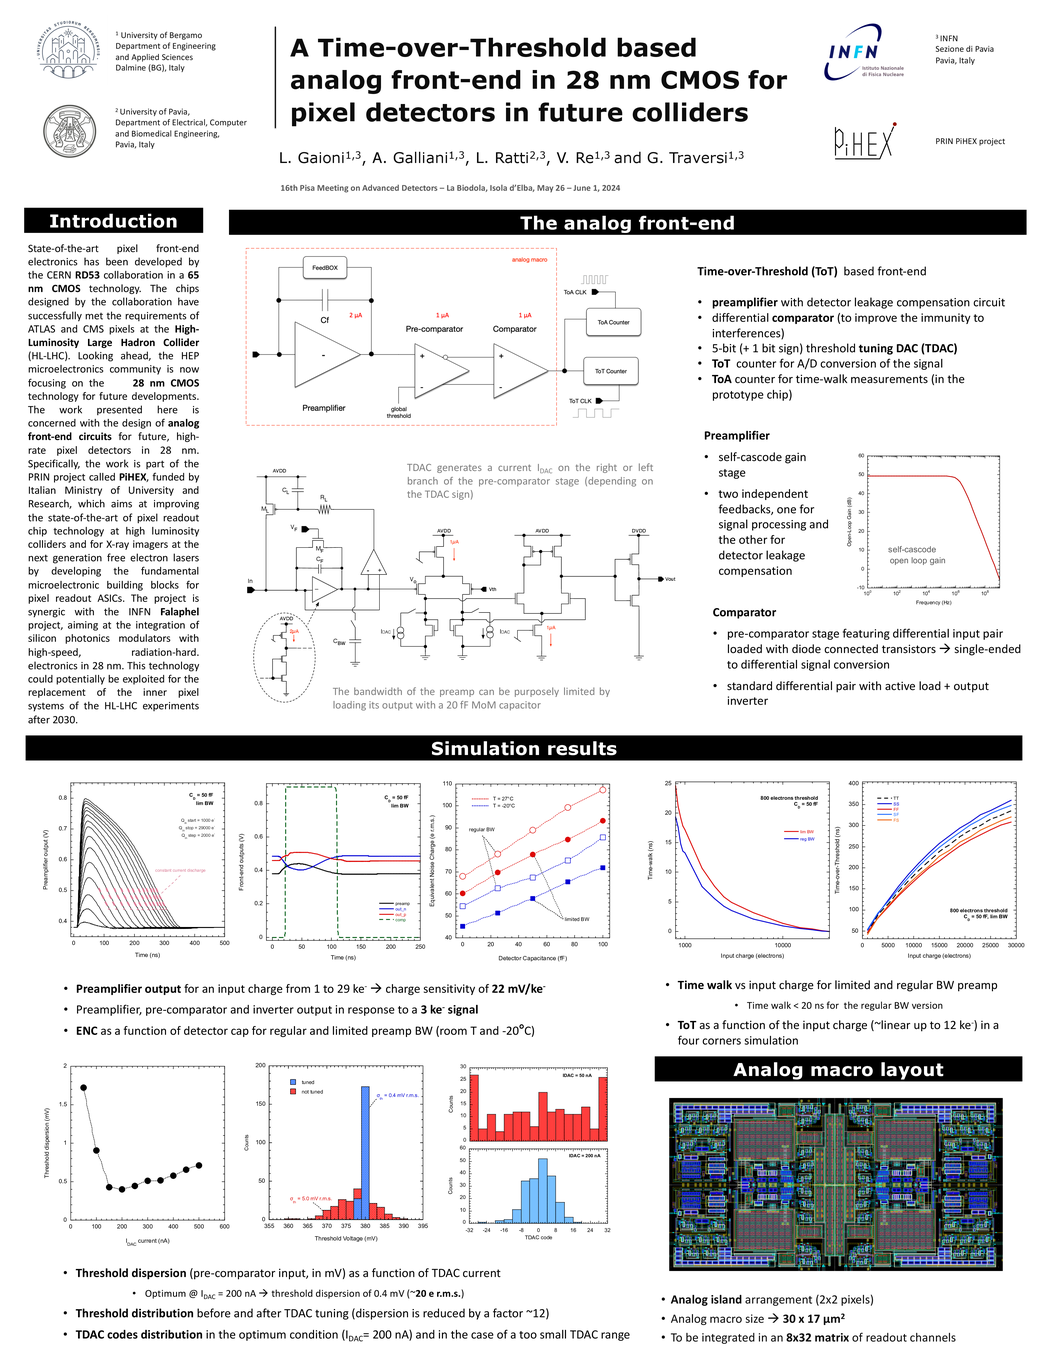
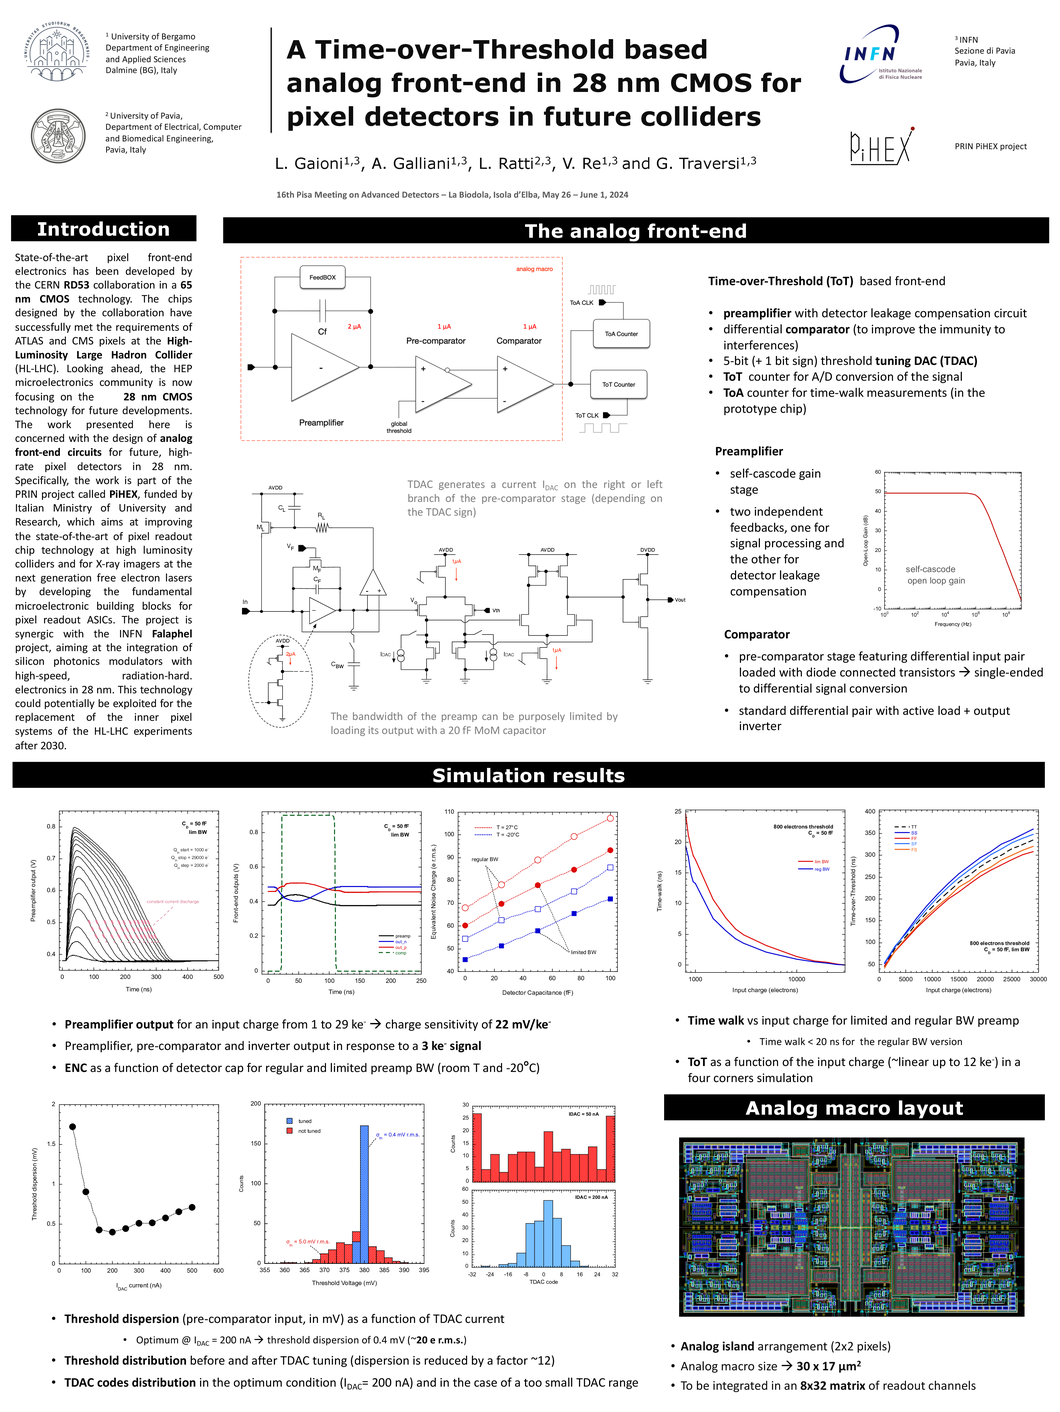
Minor.

diff --git a/pm2024/pm2024_raster.py b/pm2024/pm2024_raster.py
@@ -40,7 +40,7 @@ PARSER.add_argument('--autocrop', action='store_true')
 PARSER.add_argument('--overwrite', action='store_true')
 
 
-_AUTOCROP_LIST = [23, 60, 212, 234]
+_AUTOCROP_LIST = [23, 60, 211, 212, 234]
 
 
 
